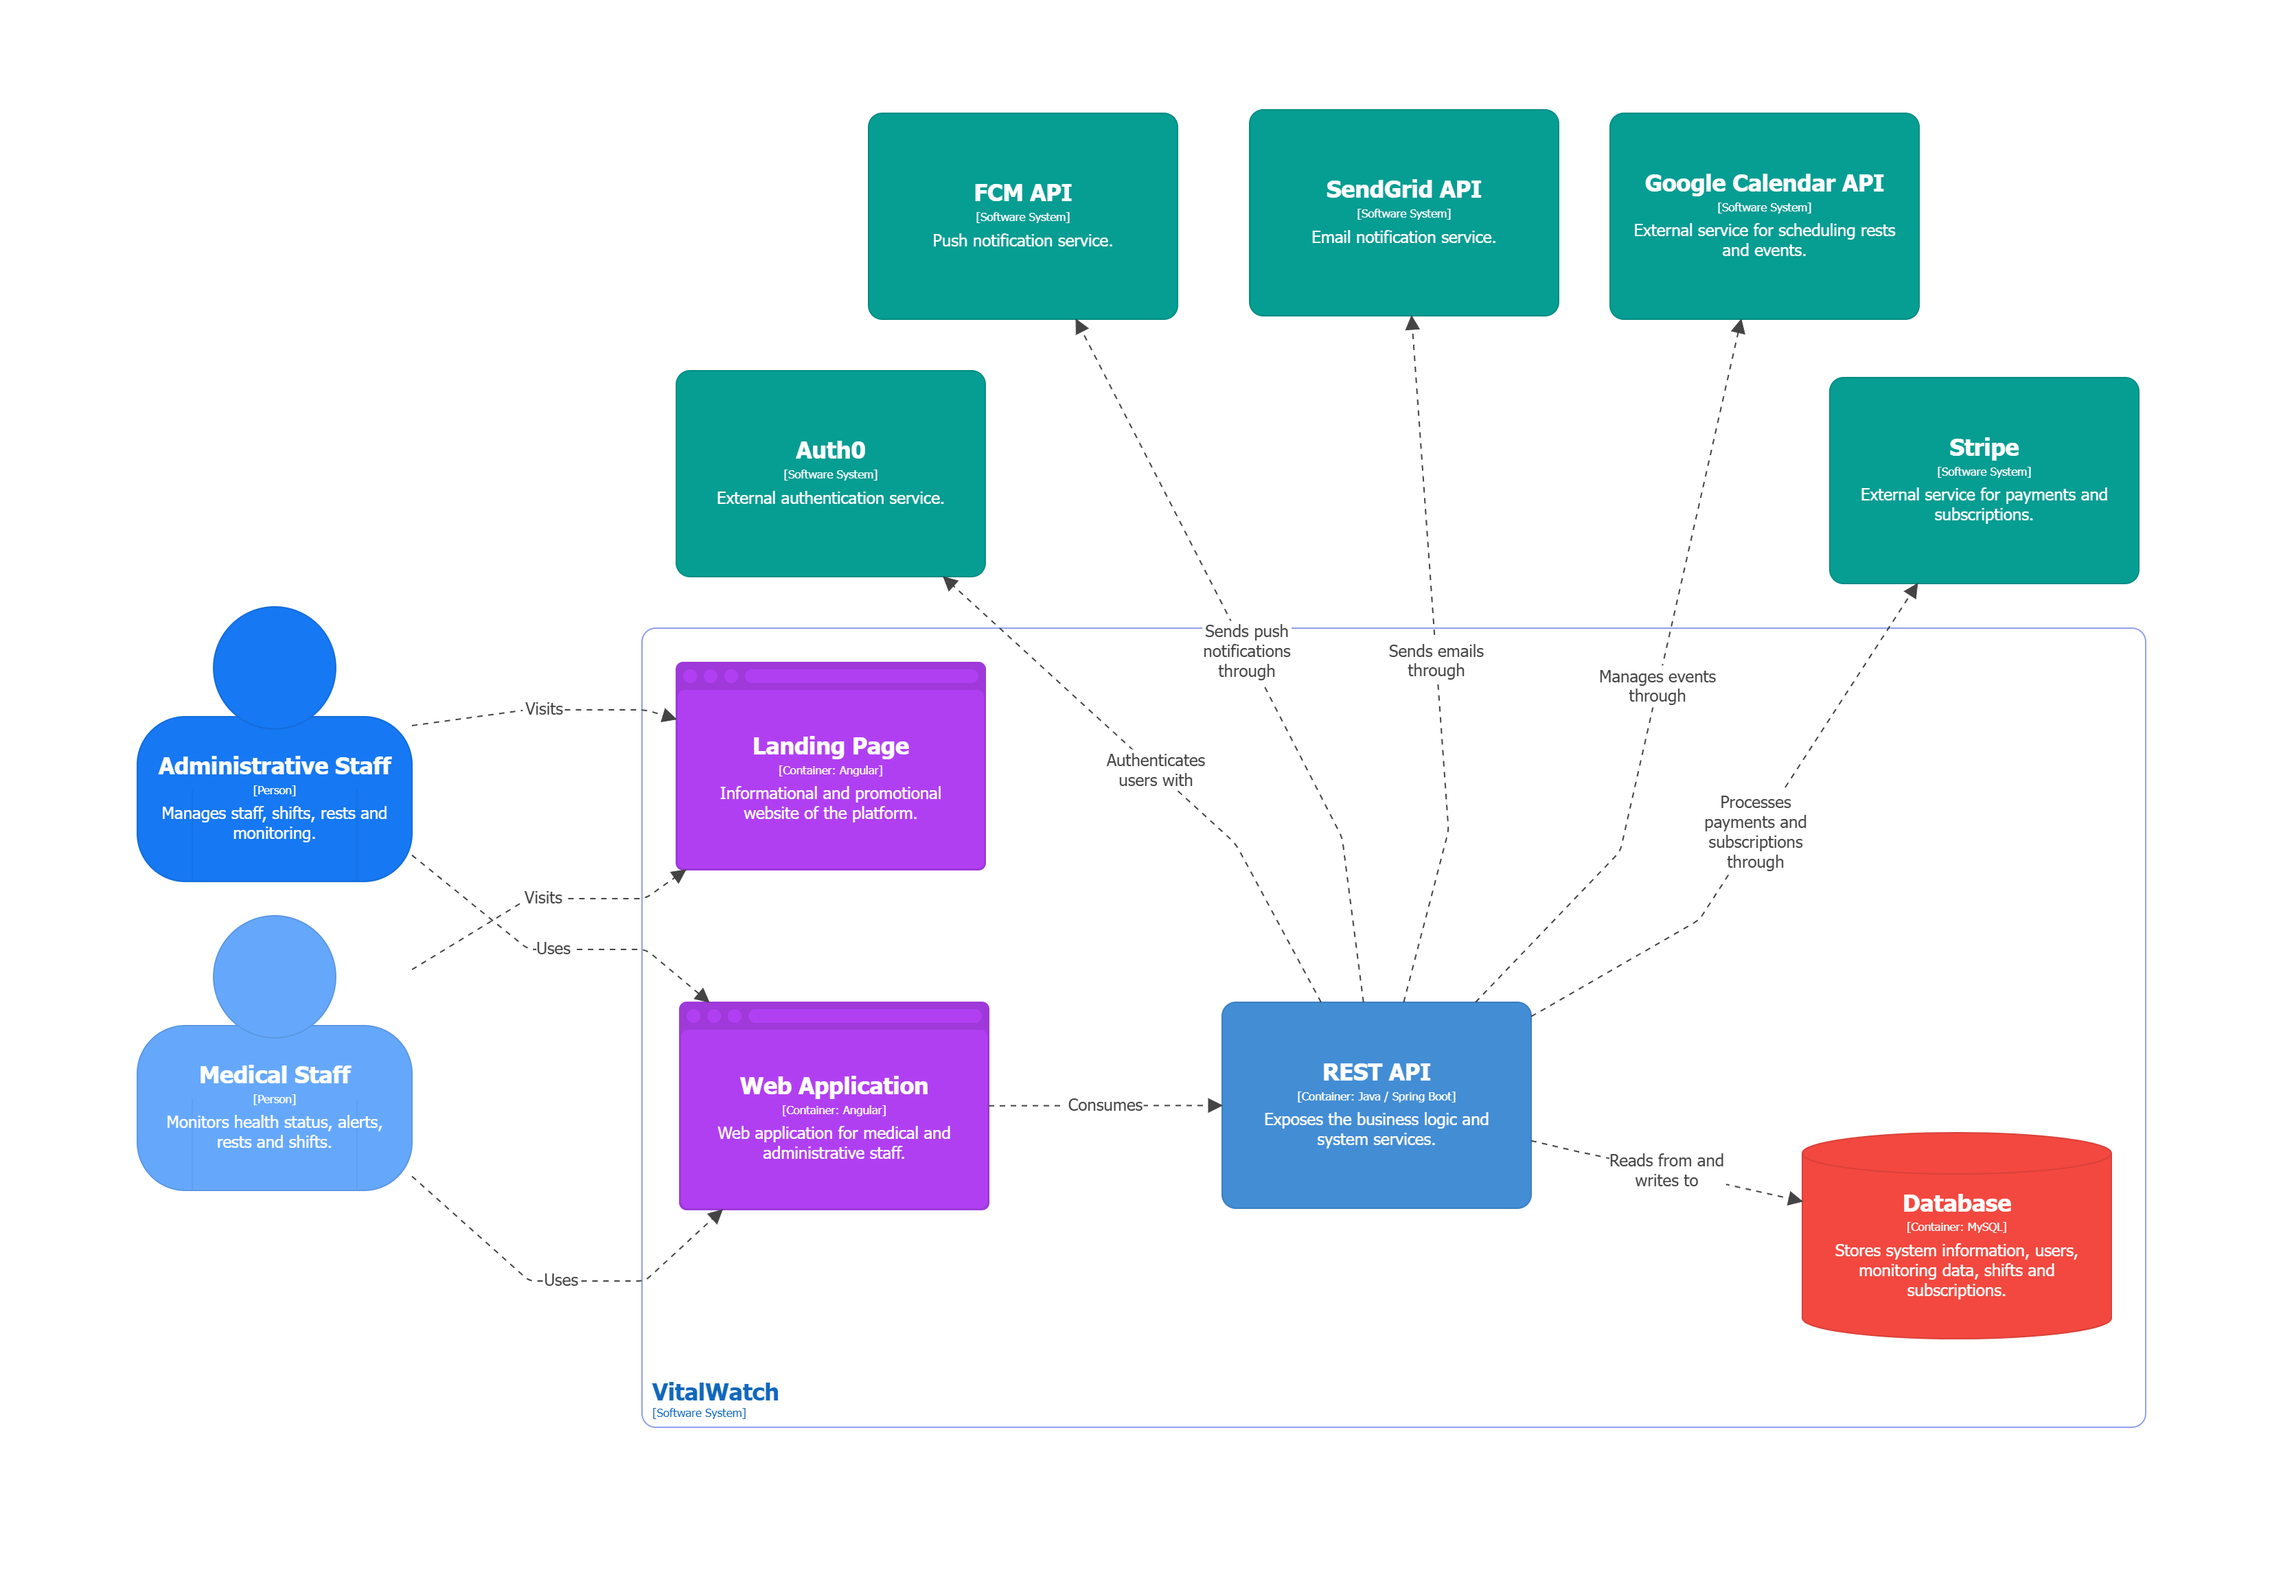
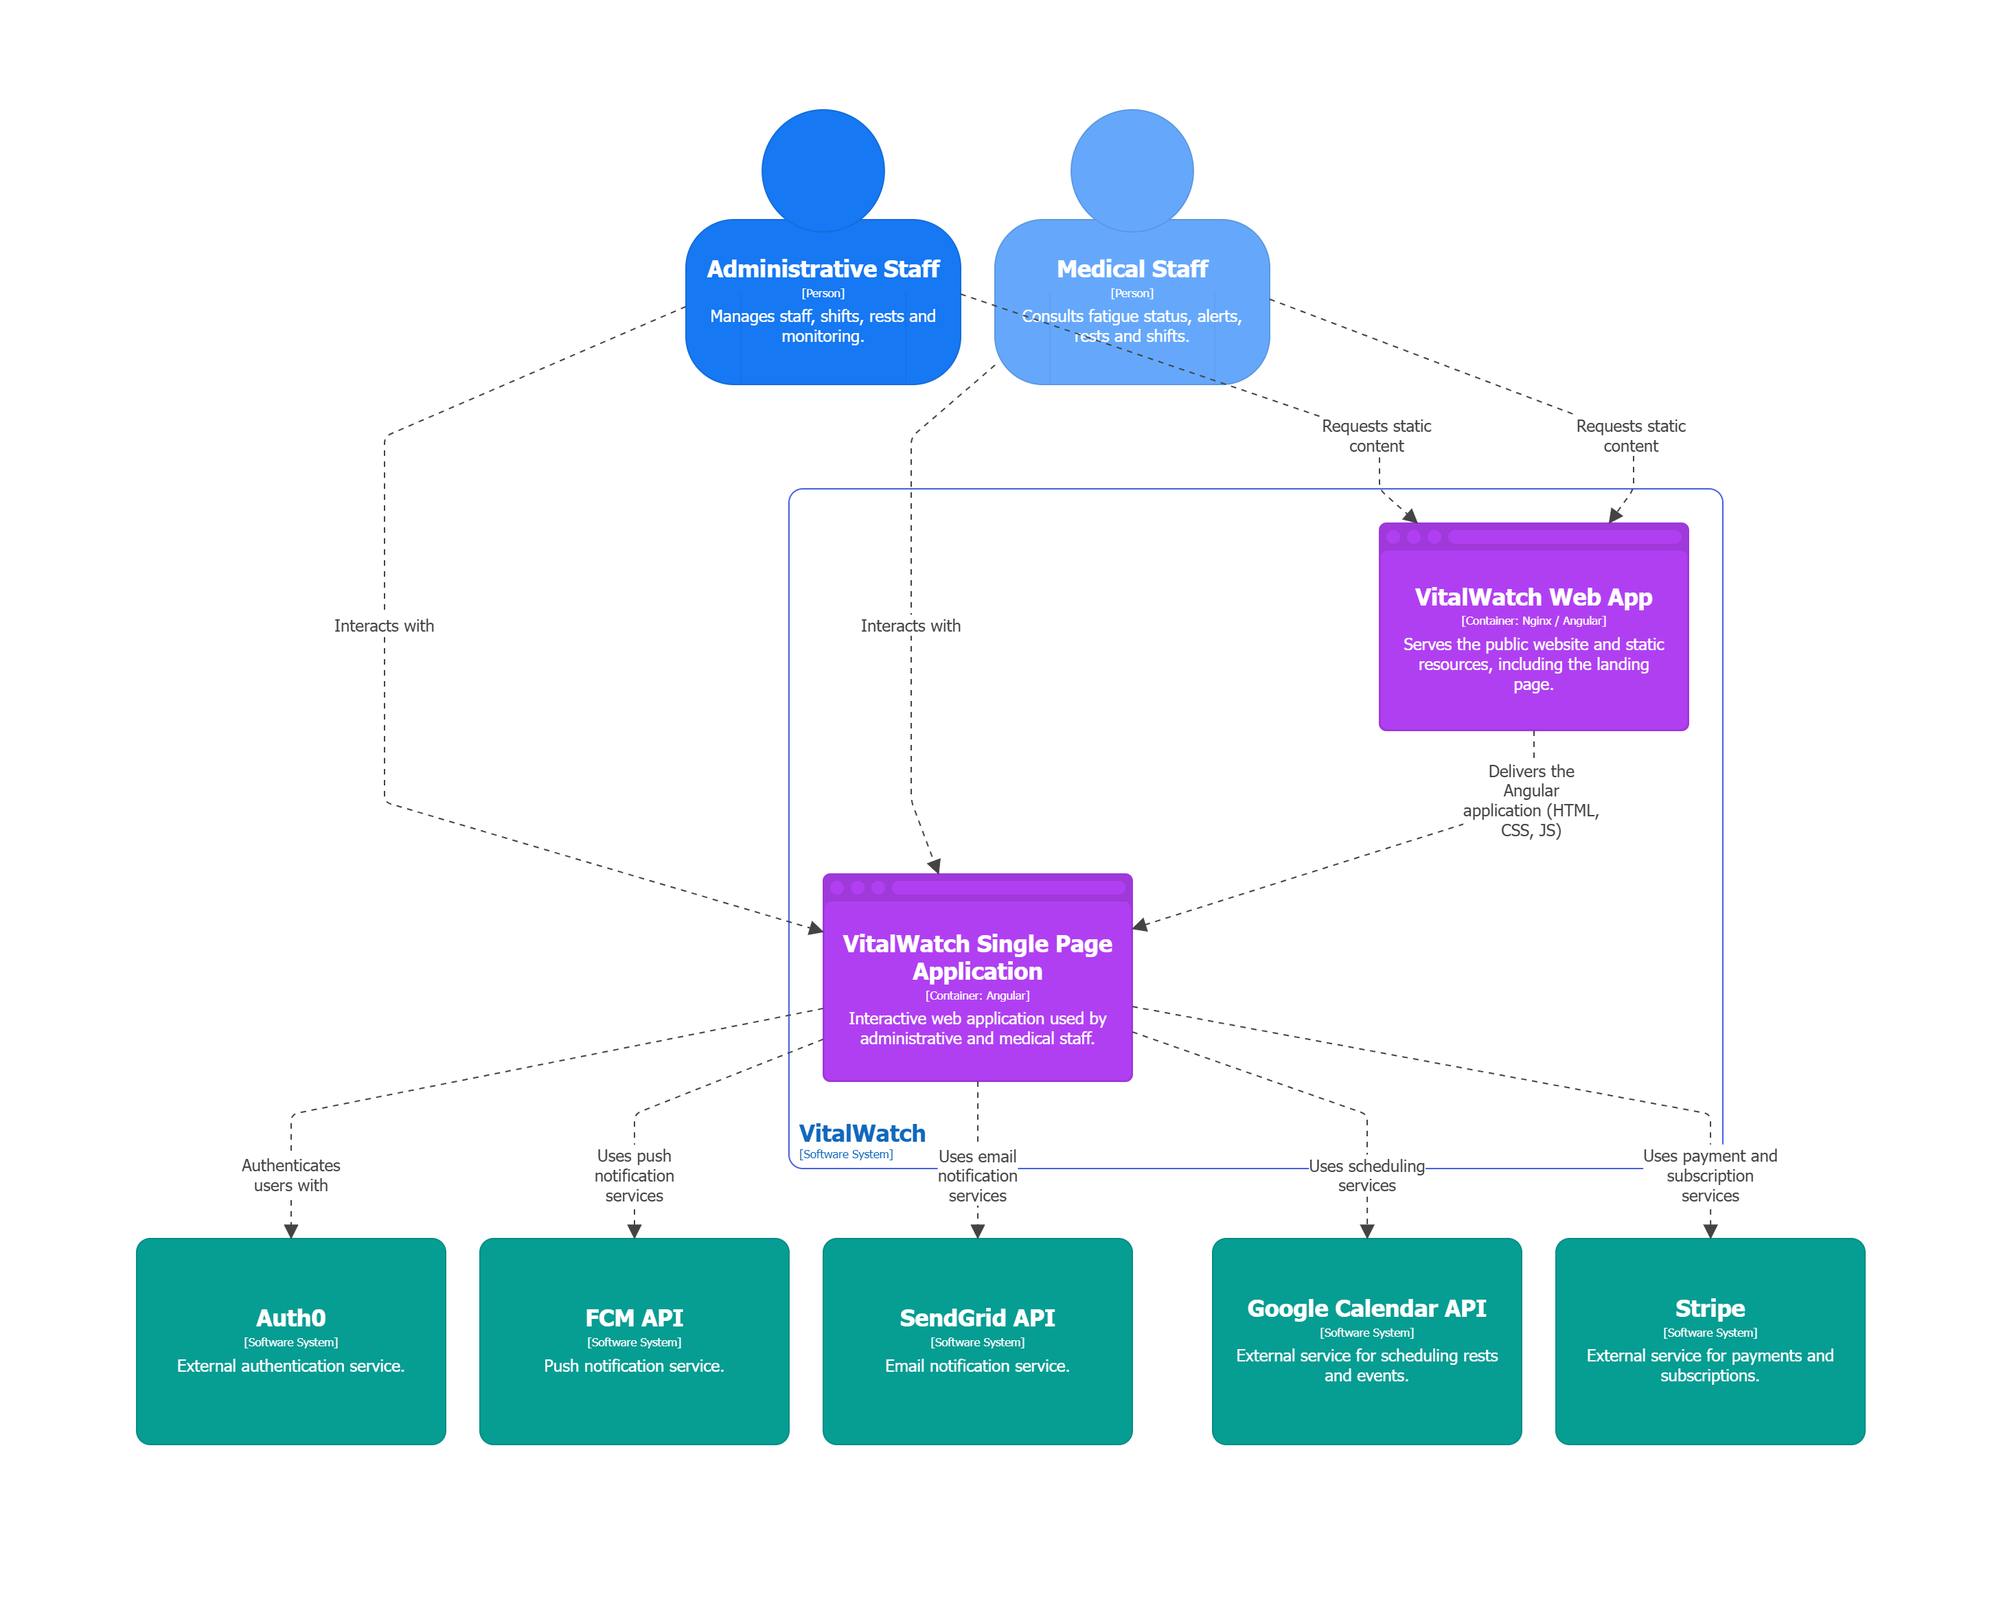
docs: corrected software architecture context diagram

diff --git a/README.md b/README.md
@@ -1160,75 +1160,75 @@ A continuación, se describe cada bounded context de manera individual.
 
 <img src="Resources/Images/C4Diagrams/context_diagram.png" alt="Diseño del diagrama de contexto."> <br>
 
-El diagrama de contexto muestra a VitalWatch como el sistema central y permite ver, de forma general, con quiénes interactúa y de qué servicios externos depende. En este caso, se observa la relación con el personal administrativo y el personal médico, así como con herramientas externas como Auth0, FCM, SendGrid, Google Calendar y Stripe, que apoyan funciones clave del sistema como autenticación, notificaciones, gestión de eventos y pagos.
+El diagrama de contexto muestra a VitalWatch como el sistema central y permite observar, de forma general, con qué usuarios y servicios externos interactúa. En este caso, se representa la relación con el personal administrativo y el personal médico, así como con servicios externos como Auth0, FCM API, SendGrid API, Google Calendar API y Stripe.
 
 ### 4.6.3. Software Architecture Container Diagrams.
 
 <img src="Resources/Images/C4Diagrams/container_diagram.png" alt="Diseño del diagrama de contenedores."> <br>
 
-El diagrama de contenedores muestra cómo está organizado internamente el sistema VitalWatch, identificando sus principales componentes y cómo se comunican entre sí. Se puede ver que los usuarios interactúan a través de la Landing Page y la Web Application, las cuales consumen los servicios de la REST API, donde se concentra la lógica del negocio. A su vez, la API se encarga de comunicarse con la base de datos y con servicios externos para funcionalidades como autenticación, notificaciones, calendario y pagos.
+El diagrama de contenedores muestra la organización general del frontend de VitalWatch. Se observa que el sistema cuenta con una Web App, encargada de servir el contenido estático y la landing page, y una Single Page Application, que representa la aplicación interactiva utilizada por el personal administrativo y médico. Además, se muestran las integraciones externas utilizadas por la aplicación para autenticación, notificaciones, programación y pagos.
 
 ### 4.6.4. Software Architecture Components Diagrams.
 
-### REST API
+### VitalWatch Single Page Application
 
-<img src="Resources/Images/C4Diagrams/api_rest_component_diagram.png" alt="Diseño del diagrama de componentes de la Rest Api"> <br>
+<img src="Resources/Images/C4Diagrams/spa_diagram.png" alt="Diseño del diagrama de componentes de VitalWatch Single Page Application."> <br>
 
-El diagrama muestra la organización interna de la REST API, donde cada componente representa un bounded context del sistema. Se puede observar cómo interactúan entre sí y con servicios externos para implementar la lógica del negocio.
+El diagrama muestra la relación entre la VitalWatch Single Page Application, la API Application y la base de datos. Dentro de la API Application se representan los bounded contexts identificados en el event storming, los cuales organizan la lógica principal del backend y se relacionan con la base de datos para persistir la información del sistema.
 
 ### State Analysis
 
-<img src="Resources/Images/C4Diagrams/state_component_diagram.png" alt="Diseño del diagrama de componentes del bounded context de Análisis de estado"> <br>
+<img src="Resources/Images/C4Diagrams/state_diagram.png" alt="Diseño del diagrama de componentes del bounded context de Análisis de estado."> <br>
 
-El diagrama de componentes de Análisis de estado muestra cómo se estructura este módulo para procesar los datos biométricos y determinar el nivel de fatiga del personal médico.
+El diagrama de componentes de Análisis de estado muestra cómo se estructura este bounded context para procesar los datos biométricos y determinar el nivel de fatiga del personal médico. Además, presenta sus capas internas y su relación con la base de datos.
 
 ### Medical Rest Management
 
-<img src="Resources/Images/C4Diagrams/rest_component_diagram.png" alt="Diseño del diagrama de componentes del bounded context de Gestión del descanso médico"> <br>
+<img src="Resources/Images/C4Diagrams/rest_diagram.png" alt="Diseño del diagrama de componentes del bounded context de Gestión del descanso médico."> <br>
 
-El diagrama de componentes de Gestión del descanso médico muestra cómo se administran los descansos del personal médico, incluyendo su programación, modificación y validación.
+El diagrama de componentes de Gestión del descanso médico muestra cómo se administran los descansos del personal médico, incluyendo su programación, modificación, validación y recomendaciones asociadas al nivel de fatiga.
 
 ### Alerting and Notification Management
 
-<img src="Resources/Images/C4Diagrams/alerting_component_diagram.png" alt="Diseño del diagrama de componentes del bounded context de Gestión de alertas y notificaciones"> <br>
+<img src="Resources/Images/C4Diagrams/alerting_diagram.png" alt="Diseño del diagrama de componentes del bounded context de Gestión de alertas y notificaciones."> <br>
 
-El diagrama de componentes de Gestión de alertas y notificaciones muestra cómo el sistema genera y envía alertas a partir de los eventos detectados en otros módulos.
+El diagrama de componentes de Gestión de alertas y notificaciones muestra cómo el sistema genera alertas y envía notificaciones a partir de los eventos detectados en otros bounded contexts.
 
 ### Biometric Data Management
 
-<img src="Resources/Images/C4Diagrams/biometric_component_diagram.png" alt="Diseño del diagrama de componentes del bounded context de Gestión de datos biométricos"> <br>
+<img src="Resources/Images/C4Diagrams/data_diagram.png" alt="Diseño del diagrama de componentes del bounded context de Gestión de datos biométricos."> <br>
 
-El diagrama de componentes de Gestión de datos biométricos muestra cómo se almacenan, actualizan y gestionan los datos provenientes de los dispositivos médicos.
+El diagrama de componentes de Gestión de datos biométricos muestra cómo se registran, actualizan, validan y almacenan los datos provenientes de los dispositivos médicos.
 
 ### Identity and Access Management
 
-<img src="Resources/Images/C4Diagrams/identity_component_diagram.png" alt="Diseño del diagrama de componentes del bounded context de Gestión de identidad y acceso"> <br>
+<img src="Resources/Images/C4Diagrams/identity_diagram.png" alt="Diseño del diagrama de componentes del bounded context de Gestión de identidad y acceso."> <br>
 
-El diagrama de componentes de Gestión de identidad y acceso muestra cómo se gestionan la autenticación, verificación y control de acceso dentro del sistema.
+El diagrama de componentes de Gestión de identidad y acceso muestra cómo se gestionan la autenticación, verificación, roles y control de acceso dentro del sistema.
 
 ### Medical Staff Management
 
-<img src="Resources/Images/C4Diagrams/staff_component_diagram.png" alt="Diseño del diagrama de componentes del bounded context de Gestión de personal médico"> <br>
+<img src="Resources/Images/C4Diagrams/staff_diagram.png" alt="Diseño del diagrama de componentes del bounded context de Gestión de personal médico."> <br>
 
-El diagrama de componentes de Gestión de personal médico muestra cómo se administra la información del personal médico, incluyendo su registro y búsqueda.
+El diagrama de componentes de Gestión de personal médico muestra cómo se administra la información del personal médico, incluyendo su registro, consulta y búsqueda.
 
 ### Medical Device Management
 
-<img src="Resources/Images/C4Diagrams/device_component_diagram.png" alt="Diseño del diagrama de componentes del bounded context de Gestión de dispositivos médicos"> <br>
+<img src="Resources/Images/C4Diagrams/device_diagram.png" alt="Diseño del diagrama de componentes del bounded context de Gestión de dispositivos médicos."> <br>
 
-El diagrama de componentes de Gestión de dispositivos médicos muestra cómo se realiza la vinculación y configuración de los dispositivos utilizados por el sistema.
+El diagrama de componentes de Gestión de dispositivos médicos muestra cómo se realiza la vinculación, sincronización y configuración de umbrales de los dispositivos utilizados por el sistema.
 
 ### Subscription and Payment Management
 
-<img src="Resources/Images/C4Diagrams/subscription_component_diagram.png" alt="Diseño del diagrama de componentes del bounded context de Suscripciones y gestión de pagos"> <br>
+<img src="Resources/Images/C4Diagrams/subscription_diagram.png" alt="Diseño del diagrama de componentes del bounded context de Suscripciones y gestión de pagos."> <br>
 
-El diagrama de componentes de Suscripciones y gestión de pagos muestra cómo se gestionan los planes, pagos y el acceso a funcionalidades de la plataforma.
+El diagrama de componentes de Suscripciones y gestión de pagos muestra cómo se gestionan los planes, pagos, suscripciones y el acceso a funcionalidades de la plataforma.
 
 ### Medical Shift Management
 
-<img src="Resources/Images/C4Diagrams/shift_component_diagram.png" alt="Diseño del diagrama de componentes del bounded context de Gestión de turnos médicos"> <br>
+<img src="Resources/Images/C4Diagrams/shift_diagram.png" alt="Diseño del diagrama de componentes del bounded context de Gestión de turnos médicos."> <br>
 
-El diagrama de componentes de Gestión de turnos médicos muestra cómo se administran los horarios del personal médico, incluyendo asignación, validación y reprogramación.
+El diagrama de componentes de Gestión de turnos médicos muestra cómo se administran los turnos del personal médico, incluyendo asignación, validación y reprogramación.
 
 ## 4.7. Software Object-Oriented Design.
 ### 4.7.1. Class Diagrams.
